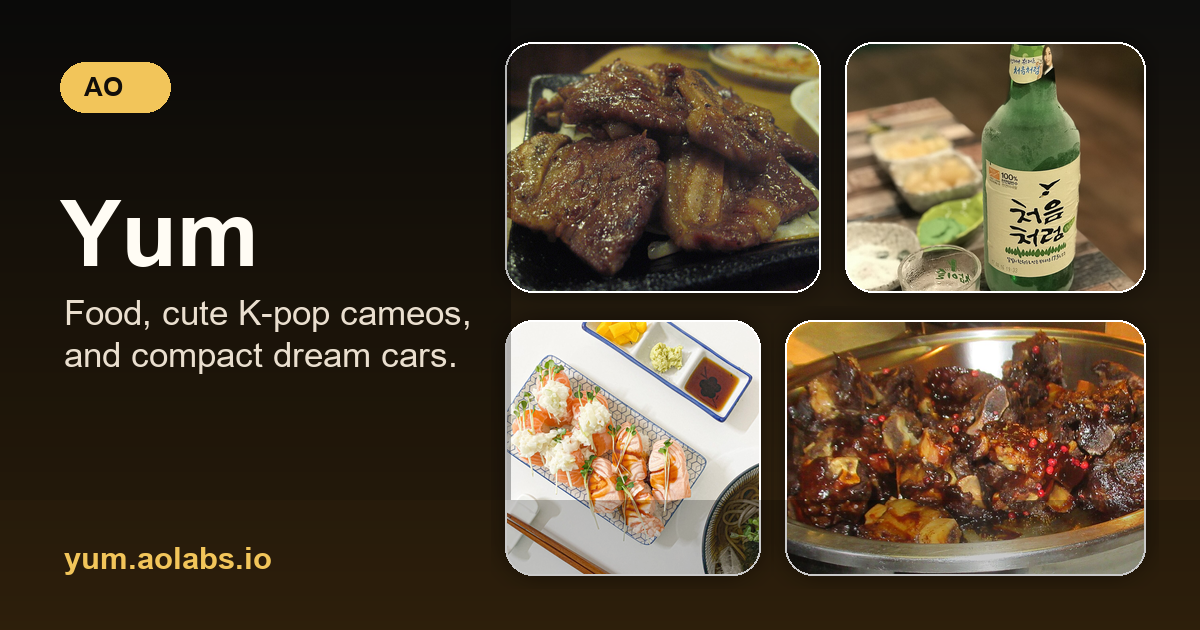
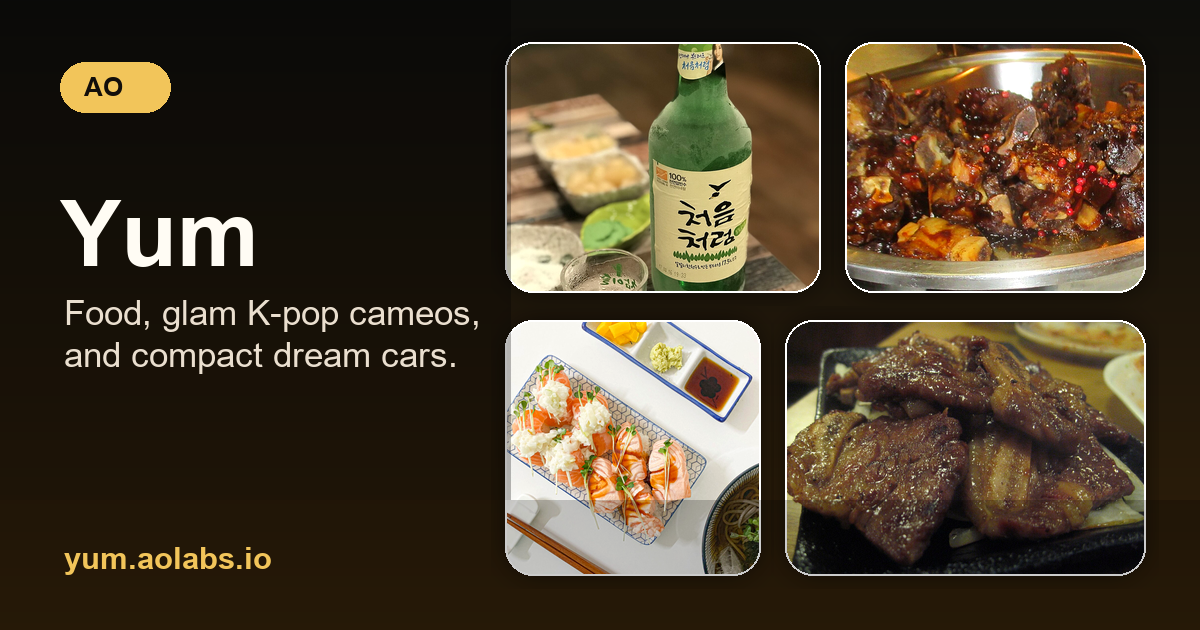
Refresh Yum social preview

Changed region(s): [[0.4008, 0.0603, 0.9558, 0.4825], [0.6475, 0.5127, 0.9558, 0.9349], [0.1233, 0.4825, 0.4008, 0.5429]]

diff --git a/public/index.html b/public/index.html
@@ -5,24 +5,24 @@
     <meta name="viewport" content="width=device-width, initial-scale=1">
     <meta name="theme-color" content="#101010">
     <title>Yum</title>
-    <meta name="description" content="A gorgeous infinite image wall of food, cute K-pop cameos, and compact European dream cars.">
+    <meta name="description" content="A gorgeous infinite image wall of food, glam K-pop cameos, and compact European dream cars.">
     <link rel="canonical" href="https://yum.aolabs.io/">
     <meta property="og:type" content="website">
     <meta property="og:site_name" content="AO Labs">
     <meta property="og:title" content="Yum">
-    <meta property="og:description" content="A gorgeous infinite image wall of food, cute K-pop cameos, and compact European dream cars.">
+    <meta property="og:description" content="A gorgeous infinite image wall of food, glam K-pop cameos, and compact European dream cars.">
     <meta property="og:url" content="https://yum.aolabs.io/">
     <meta property="og:image" content="https://yum.aolabs.io/og-image.png">
     <meta property="og:image:secure_url" content="https://yum.aolabs.io/og-image.png">
     <meta property="og:image:type" content="image/png">
     <meta property="og:image:width" content="1200">
     <meta property="og:image:height" content="630">
-    <meta property="og:image:alt" content="Yum by AO Labs preview image.">
+    <meta property="og:image:alt" content="Yum by AO Labs preview card with food tiles.">
     <meta name="twitter:card" content="summary_large_image">
     <meta name="twitter:title" content="Yum">
-    <meta name="twitter:description" content="A gorgeous infinite image wall of food, cute K-pop cameos, and compact European dream cars.">
+    <meta name="twitter:description" content="A gorgeous infinite image wall of food, glam K-pop cameos, and compact European dream cars.">
     <meta name="twitter:image" content="https://yum.aolabs.io/og-image.png">
-    <meta name="twitter:image:alt" content="Yum by AO Labs preview image.">
+    <meta name="twitter:image:alt" content="Yum by AO Labs preview card with food tiles.">
     <link rel="icon" href="/icon.svg" type="image/svg+xml">
     <link rel="manifest" href="/site.webmanifest">
     <link rel="apple-touch-icon" href="/apple-touch-icon.svg">
